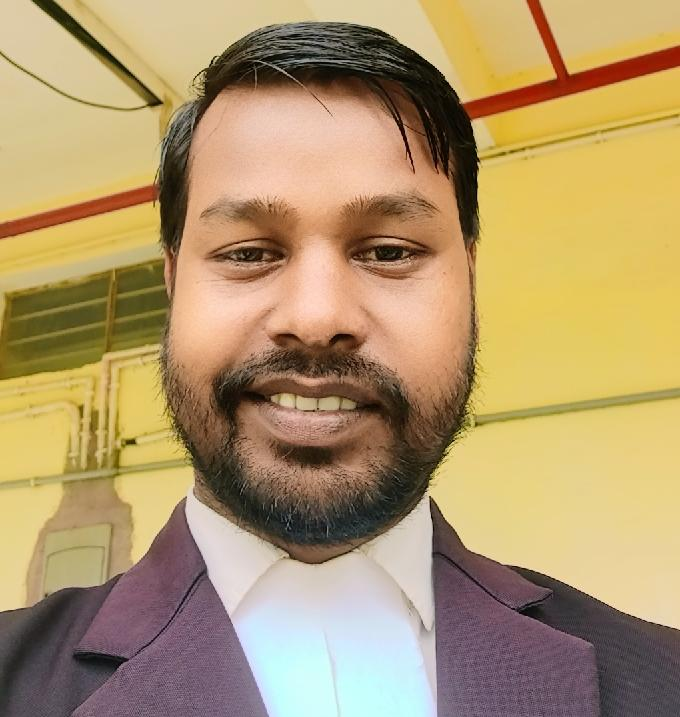
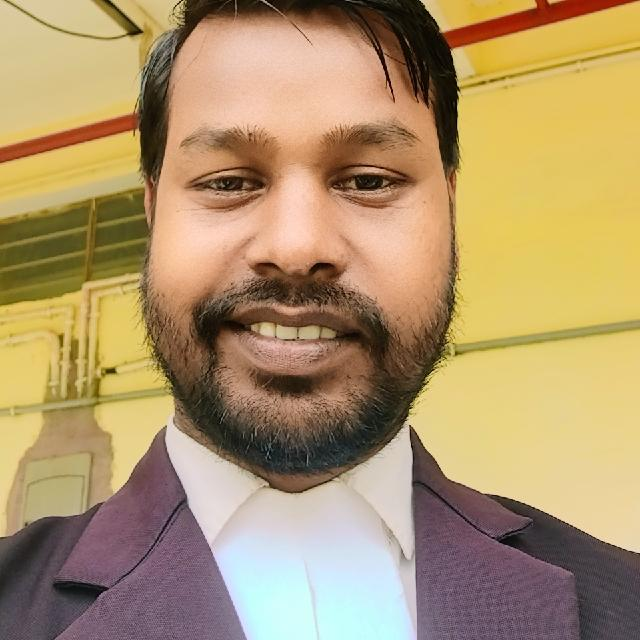
Fix advocate photo crop box to 100% center face, eyes, beard and advocate tie collar

diff --git a/templates/advocate_profile.html b/templates/advocate_profile.html
@@ -26,8 +26,8 @@
                 <div class="col-lg-4 reveal-left">
                     <div class="glass-panel p-4 text-center" data-spotlight data-tilt>
                         {% if advocate.photo %}
-                        <div class="overflow-hidden rounded-4 mb-4 border border-warning shadow-lg mx-auto" style="max-width: 280px; height: 340px;">
-                            <img src="{{ advocate.photo.url }}" class="w-100 h-100 object-fit-cover" style="object-position: top center;" alt="{{ advocate.name }}">
+                        <div class="overflow-hidden rounded-4 mb-4 border border-warning shadow-lg mx-auto" style="max-width: 280px; height: 320px;">
+                            <img src="{{ advocate.photo.url }}" class="w-100 h-100 object-fit-cover" style="object-position: center center;" alt="{{ advocate.name }}">
                         </div>
                         {% else %}
                         <div class="mx-auto rounded-circle d-flex align-items-center justify-content-center shadow-lg mb-4" style="width: 160px; height: 160px; background: rgba(212, 175, 55, 0.15); border: 2px solid var(--gold-bright);">

diff --git a/templates/index.html b/templates/index.html
@@ -263,7 +263,7 @@
                             <div class="col-md-5 text-center mb-4 mb-md-0">
                                 {% if advocate.photo %}
                                 <div class="overflow-hidden rounded-circle mx-auto border border-3 border-warning shadow-lg" style="width: 170px; height: 170px; box-shadow: 0 0 35px rgba(255, 215, 0, 0.7);">
-                                    <img src="{{ advocate.photo.url }}" class="w-100 h-100 object-fit-cover" style="object-position: top center; transform: scale(1.05);" alt="{{ advocate.name }}">
+                                    <img src="{{ advocate.photo.url }}" class="w-100 h-100 object-fit-cover" style="object-position: center center;" alt="{{ advocate.name }}">
                                 </div>
                                 {% else %}
                                 <div class="mx-auto rounded-circle d-flex align-items-center justify-content-center shadow-lg" style="width: 170px; height: 170px; background: rgba(212, 175, 55, 0.15); border: 3px solid var(--gold-bright);">
